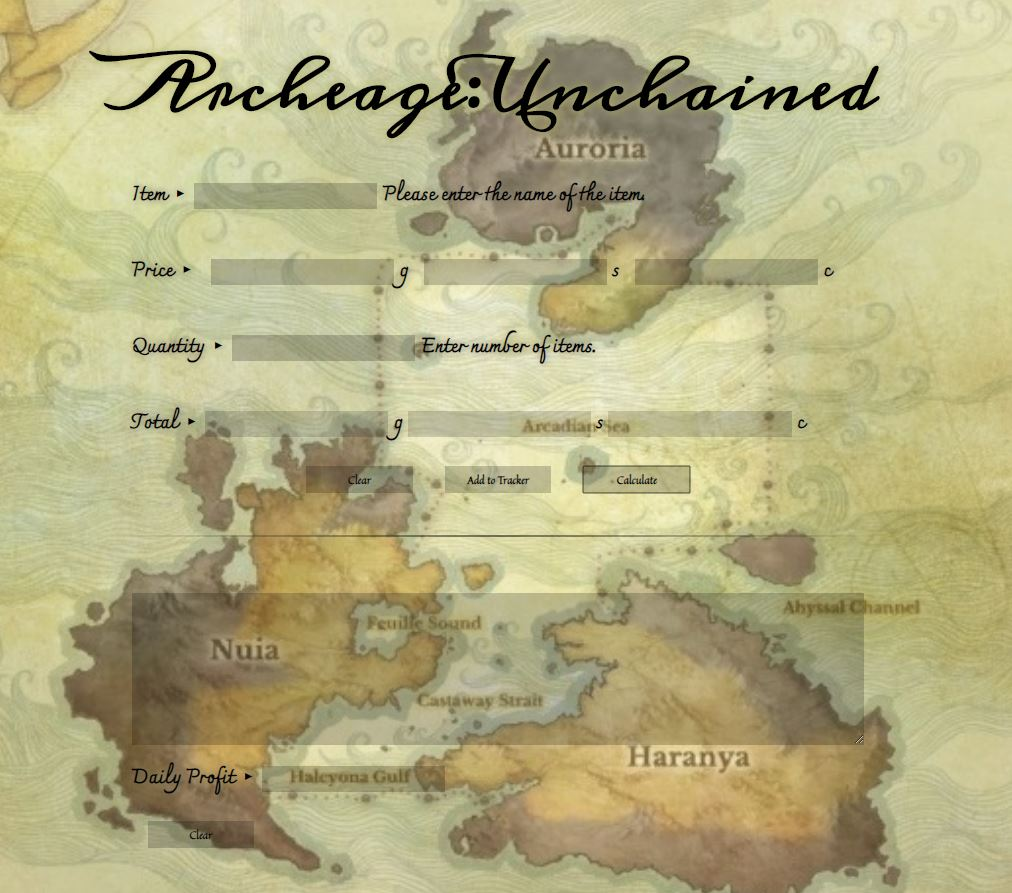
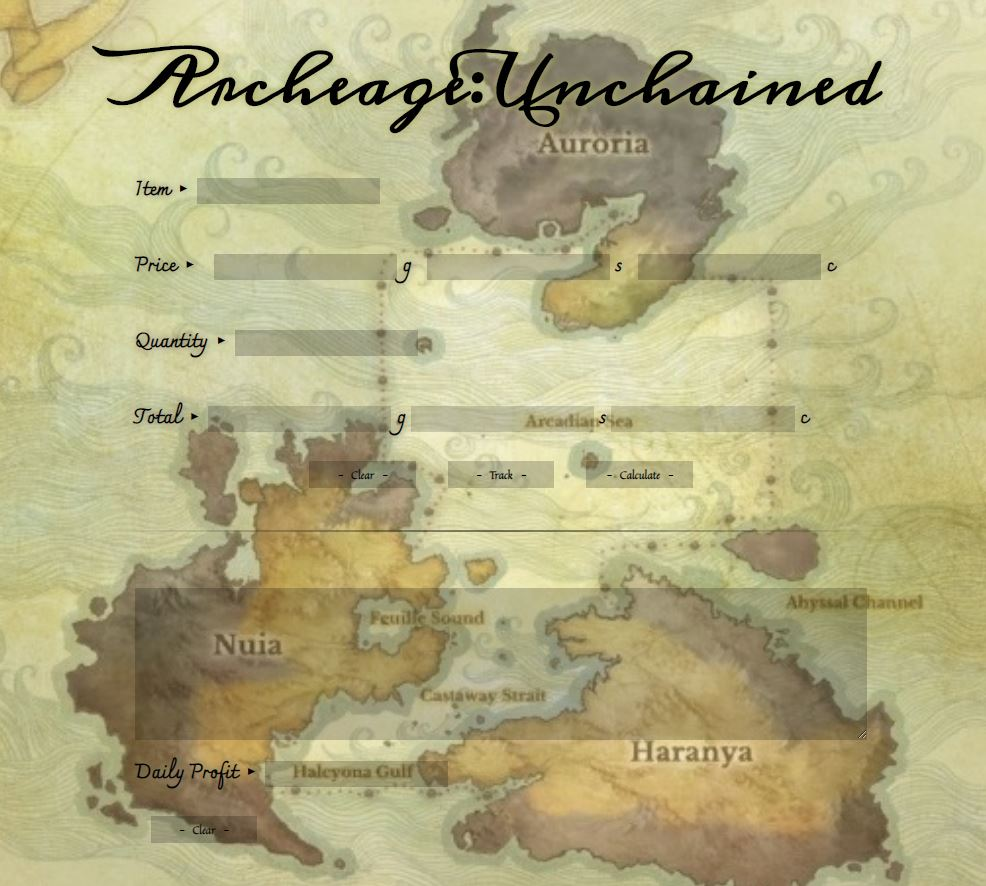
Modifed

diff --git a/templates/profit-calculator.html b/templates/profit-calculator.html
@@ -42,9 +42,9 @@
         <!-- Buttons -->
         <div class="buttons">
         <label>&nbsp;</label>
-          <input type="button" class="button" id="clear" name="clear" value="Clear">
-          <input type="button" class="button" id="track_item" name="track_item" value="Add to Tracker">
-          <input type="button" class="button" id="calculate" name="calculate" value="Calculate">
+          <input type="button" class="button" id="clear" name="clear" value="﹣  Clear  ﹣">
+          <input type="button" class="button" id="track_item" name="track_item" value="﹣  Track  ﹣">
+          <input type="button" class="button" id="calculate" name="calculate" value="﹣  Calculate  ﹣">
         </div>
     </div>
     
@@ -52,10 +52,10 @@
 
         <div id="tracker">
         <textarea id="item_tracker" rows="7" disabled></textarea>
- 
+
         <label>Daily Profit</label> ▸
         <input type="text" name="daily_profit" disabled><br>
-        <input type="button" class="button" id="clear_tracker" value="Clear">
+        <input type="button" class="button" id="clear_tracker" value="﹣  Clear  ﹣">
     </div>
     </div>
     <script src="../static/js/calculator.js"></script>
